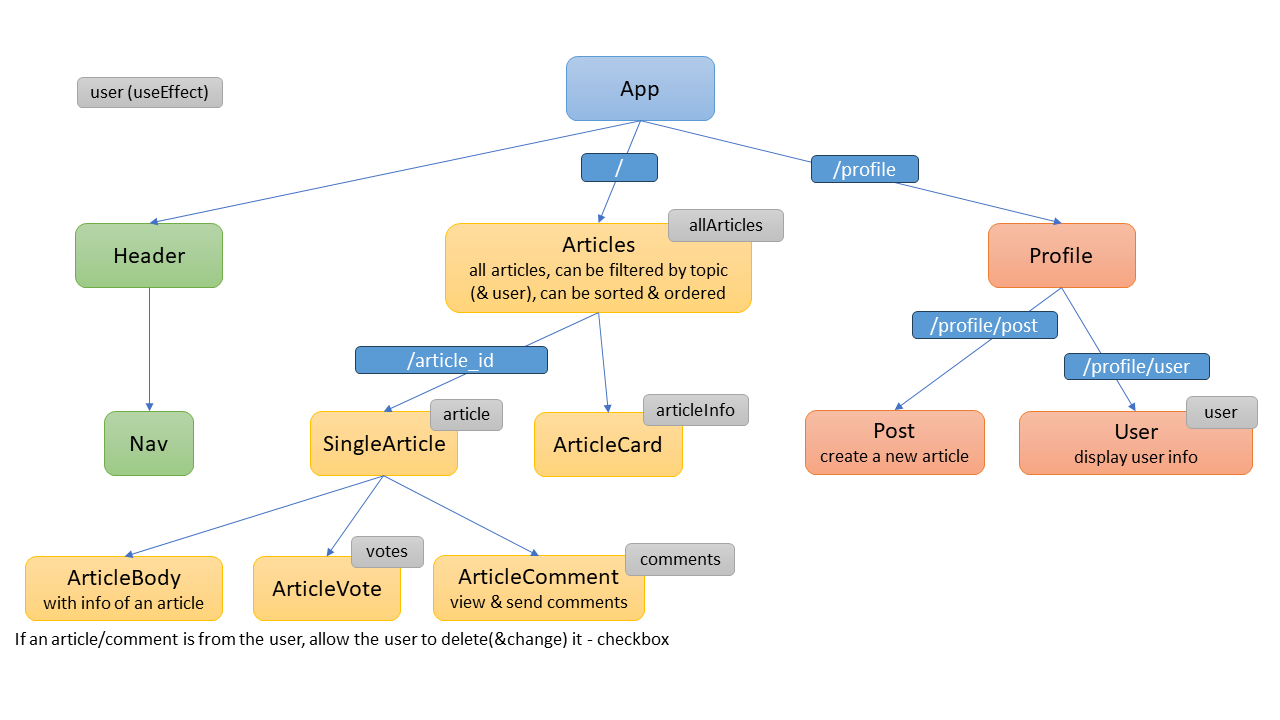
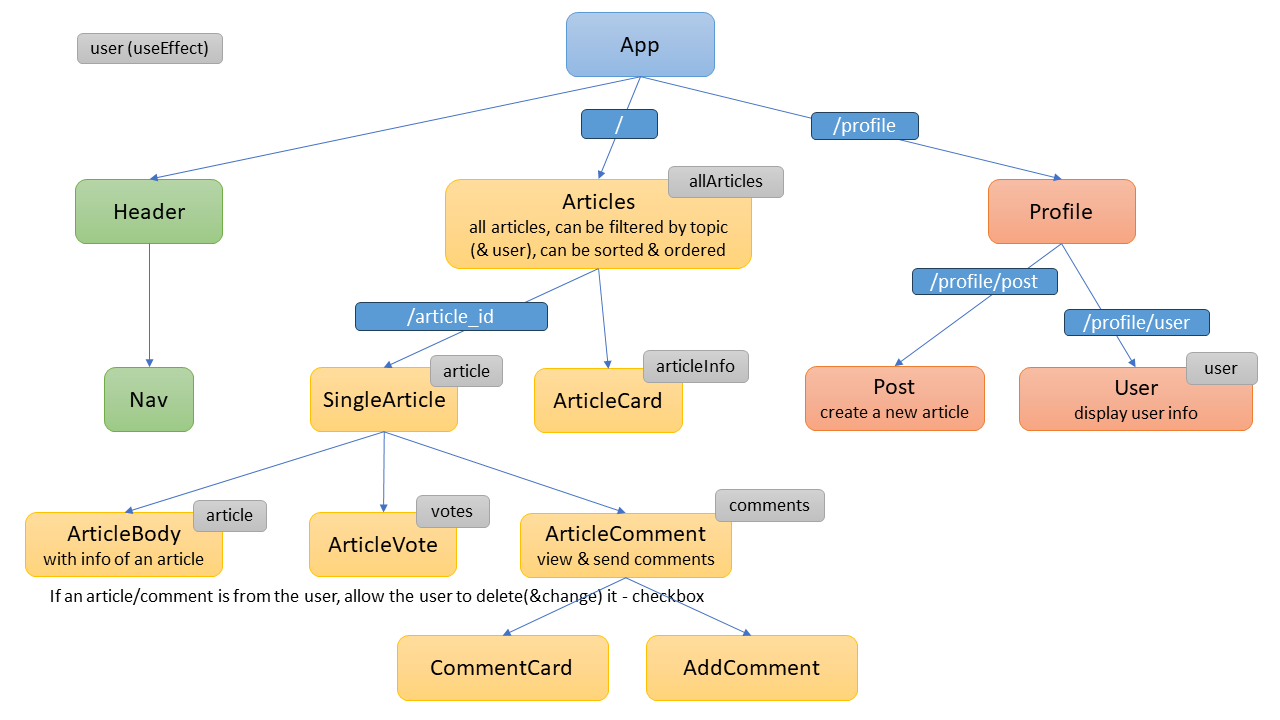
task8

diff --git a/src/components/singlearticle/AddComment.jsx b/src/components/singlearticle/AddComment.jsx
@@ -1,0 +1,57 @@
+import { useContext, useState } from "react";
+import { UserContext } from "../../contexts/User";
+import { postCommentById } from "../../utils/api";
+
+export default function AddComment({ id, setComments, setCommentsCount }) {
+  const { user } = useContext(UserContext);
+  const [comment, setComment] = useState("");
+  const [loading, setLoading] = useState(null);
+  const [error, setError] = useState(null);
+
+  const sendComment = (event) => {
+    event.preventDefault();
+    setLoading("Sending the comment, please wait.");
+
+    const date = new Date();
+    const localComment = {
+      author: user,
+      body: comment,
+      votes: 0,
+      comment_id: date.getTime(),
+      created_at: date,
+    };
+    setComments((curComments) => [localComment, ...curComments]);
+    setCommentsCount((curCount) => curCount + 1);
+
+    const commentObj = { username: user, body: comment };
+    postCommentById(id, commentObj)
+      .then(() => {
+        setLoading("Successfully commented.");
+        setTimeout(function () {
+          setLoading(null);
+        }, 2000);
+      })
+      .catch((err) => {
+        setError("Something went wrong, please try again.");
+        setComments((curComments) => curComments.shift());
+        setCommentsCount((curCount) => curCount - 1);
+      });
+  };
+
+  return (
+    <form className="commentForm" onSubmit={sendComment}>
+      <label htmlFor="comment">
+        <h4>Comment as {user}</h4>
+      </label>
+      <input
+        id="comment"
+        value={comment}
+        onChange={(event) => setComment(event.target.value)}
+        type="text"
+        required
+      />
+      {loading !== null ? <p>{loading}</p> : <p>{error}</p>}
+      <button type="submit">Comment</button>
+    </form>
+  );
+}

diff --git a/src/components/singlearticle/ArticleComment.jsx b/src/components/singlearticle/ArticleComment.jsx
@@ -1,9 +1,11 @@
 import { useEffect, useState } from "react";
 import { getCommentsById } from "../../utils/api";
 import CommentCard from "./CommentCard";
+import AddComment from "./AddComment";
 
 export default function ArticleComment({ article, id }) {
   const [comments, setComments] = useState([]);
+  const [commentsCount, setCommentsCount] = useState(article.comment_count);
   const [isLoading, setLoading] = useState(true);
   const [isError, setError] = useState(false);
 
@@ -21,16 +23,21 @@ export default function ArticleComment({ article, id }) {
 
   if (isLoading) return <p>Loading...</p>;
   if (isError)
-    return (
-      <p>Sorry, something went wrong, please refresh the page and try again.</p>
-    );
+    return <p>Something went wrong, please refresh the page and try again.</p>;
 
   return (
-    <section className="commentList">
-      <h3>{article.comment_count} Comments</h3>
-      {comments.map((comment) => (
-        <CommentCard key={comment.comment_id} comment={comment} />
-      ))}
-    </section>
+    <div>
+      <AddComment
+        id={id}
+        setComments={setComments}
+        setCommentsCount={setCommentsCount}
+      />
+      <section className="commentList">
+        <h3>{commentsCount} Comments</h3>
+        {comments.map((comment) => (
+          <CommentCard key={comment.comment_id} comment={comment} />
+        ))}
+      </section>
+    </div>
   );
 }

diff --git a/src/main.jsx b/src/main.jsx
@@ -3,11 +3,14 @@ import ReactDOM from "react-dom/client";
 import App from "./App.jsx";
 import "./index.css";
 import { BrowserRouter } from "react-router-dom";
+import { UserProvider } from "./contexts/User.jsx";
 
 ReactDOM.createRoot(document.getElementById("root")).render(
   <React.StrictMode>
-    <BrowserRouter>
-      <App />
-    </BrowserRouter>
+    <UserProvider>
+      <BrowserRouter>
+        <App />
+      </BrowserRouter>
+    </UserProvider>
   </React.StrictMode>
 );

diff --git a/src/App.css b/src/App.css
@@ -25,6 +25,7 @@ header h1 {
 }
 
 .singleArticleBody,
+.commentForm,
 .commentList,
 .votes {
   margin-right: 50px;
@@ -37,6 +38,12 @@ header h1 {
   text-align: justify;
 }
 
+.commentForm input {
+  box-sizing: border-box;
+  width: 100%;
+  height: 5em;
+}
+
 .commentCard {
   border-style: solid;
   margin-top: 20px;
@@ -44,6 +51,6 @@ header h1 {
   padding-right: 20px;
 }
 
-.votes button{
+.votes button {
   margin-right: 10px;
 }

diff --git a/src/contexts/User.jsx b/src/contexts/User.jsx
@@ -1,0 +1,13 @@
+import { createContext, useState } from "react";
+
+export const UserContext = createContext();
+
+export const UserProvider = ({ children }) => {
+  const [user, setUser] = useState("jessjelly");
+
+  return (
+    <UserContext.Provider value={{ user, setUser }}>
+      {children}
+    </UserContext.Provider>
+  );
+};

diff --git a/src/components/singlearticle/SingleArticle.jsx b/src/components/singlearticle/SingleArticle.jsx
@@ -26,7 +26,7 @@ export default function SingleArticle() {
   if (isLoading) return <p>Loading...</p>;
   if (isError)
     return (
-      <p>Sorry, something went wrong, please refresh the page and try again.</p>
+      <p>Something went wrong, please refresh the page and try again.</p>
     );
 
   return (

diff --git a/src/utils/api.js b/src/utils/api.js
@@ -27,3 +27,9 @@ export const patchArticleVotes = (id, request) => {
     return response;
   });
 };
+
+export const postCommentById = (id, request) => {
+  return newsApi.post(`/articles/${id}/comments`, request).then((response) => {
+    return response;
+  });
+};
